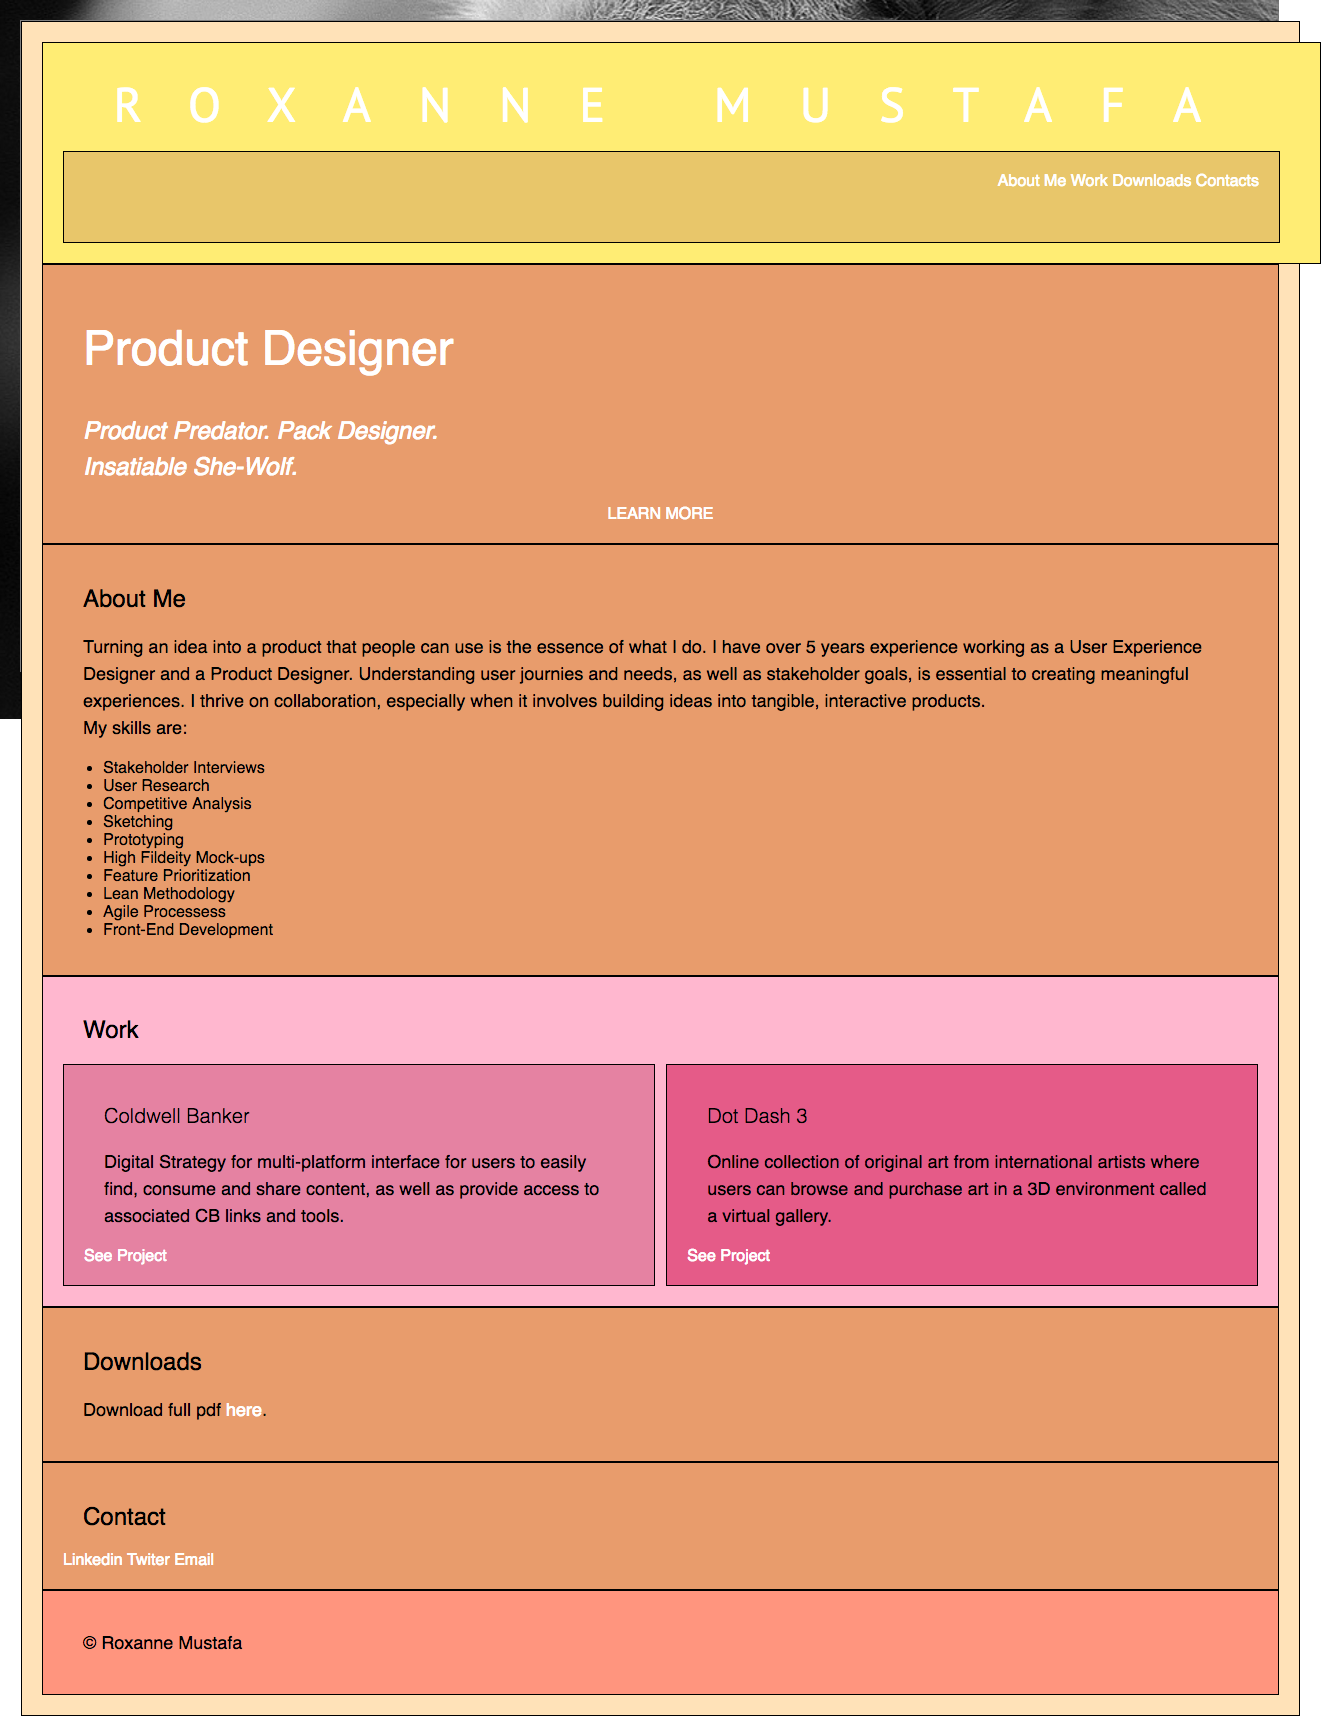
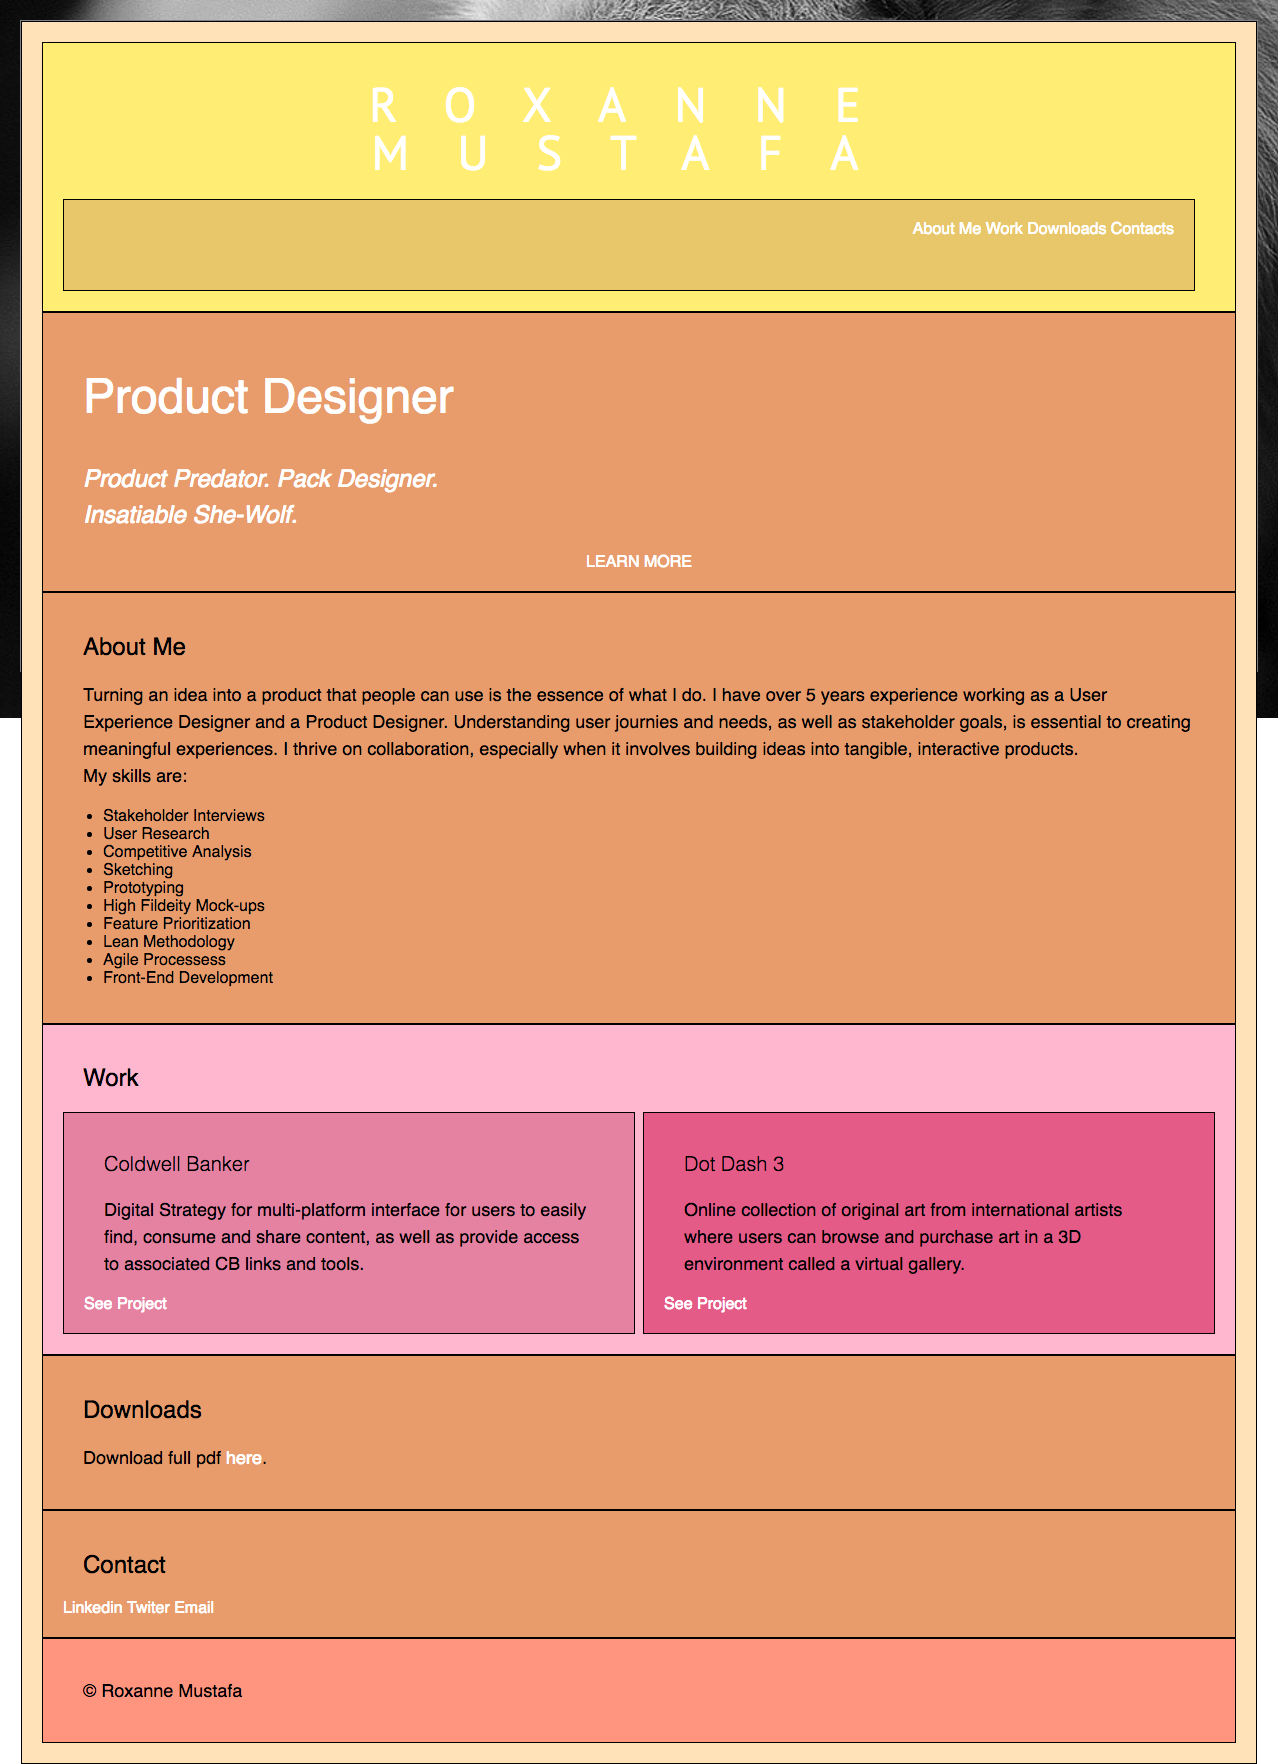
fixed widths

diff --git a/unit_6/css/style.css b/unit_6/css/style.css
@@ -4,7 +4,7 @@
    	background-color: #FFE2B8;
     border: 1px black solid;
     padding: 20px;
-    width: 100%;
+    width: auto;
 }
 
 body {
@@ -26,7 +26,7 @@ header {
     padding: 20px;
 	font-size: 16px;
 	font-weight: normal;
-    width: 100%;
+    width: auto;
 }
 
 .logo {    
